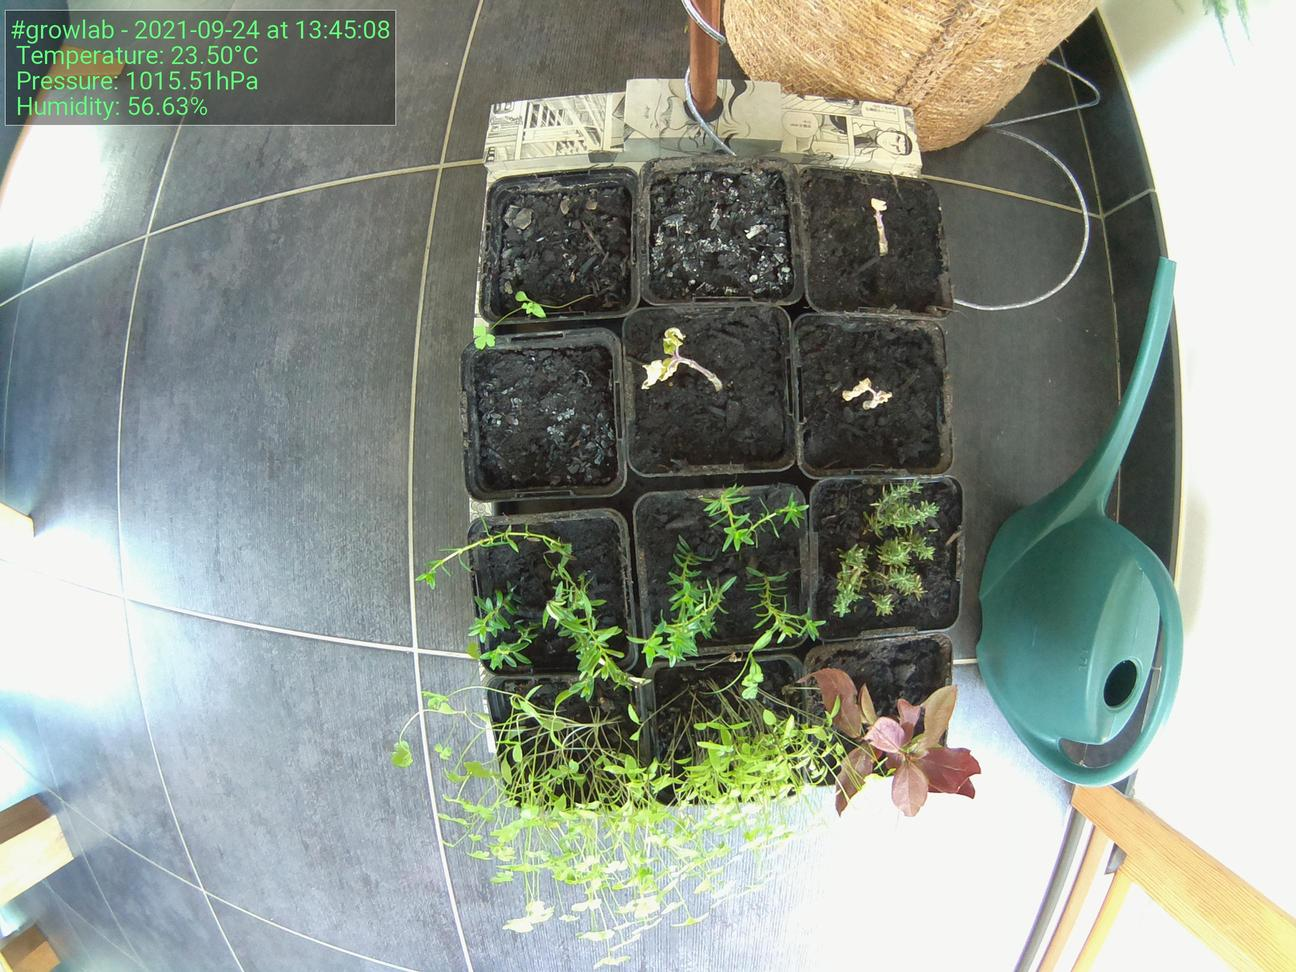
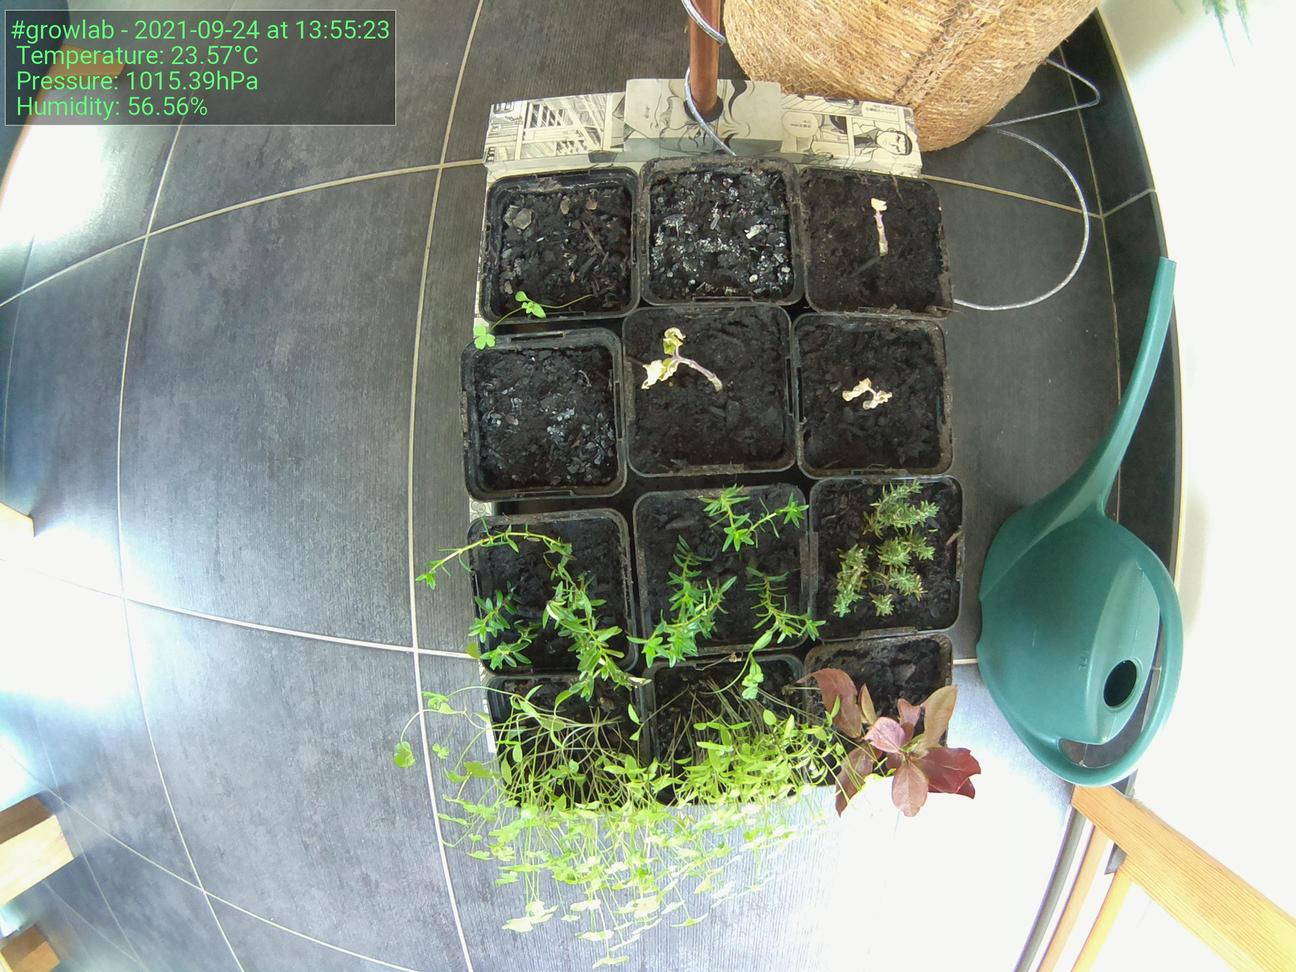
Update images at Fri 24 Sep 13:55:32 CEST 2021

diff --git a/docs/index.html b/docs/index.html
@@ -52,19 +52,19 @@
                             </tr>
                             <tr>
                                 <td>Time</td>
-                                <td>13:45:08</td>
+                                <td>13:55:23</td>
                             </tr>
                             <tr>
                                 <td>Temperature</td>
-                                <td>23.50°C</td>
+                                <td>23.57°C</td>
                             </tr>
                             <tr>
                                 <td>Humidity</td>
-                                <td>56.63%</td>
+                                <td>56.56%</td>
                             </tr>
                             <tr>
                                 <td>Pressure</td>
-                                <td>1015.51hPa</td>
+                                <td>1015.39hPa</td>
                             </tr>
                         </tbody>
                     </table>
@@ -72,7 +72,7 @@
 
                 <h5>Latest image</h5>
                 <div style="width: 85%;">
-                            <img class="figure-img img-fluid rounded" src="./preview.jpg?uid=1632483917.502685">
+                            <img class="figure-img img-fluid rounded" src="./preview.jpg?uid=1632484531.941602">
                 </div>
             </div>
         </div>
